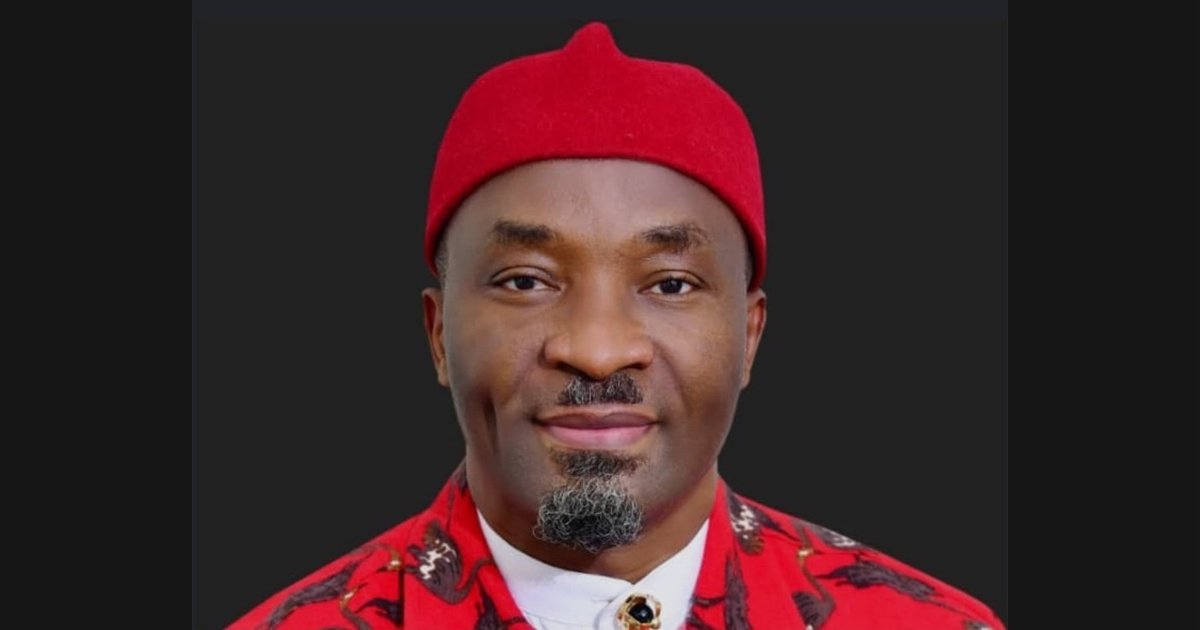
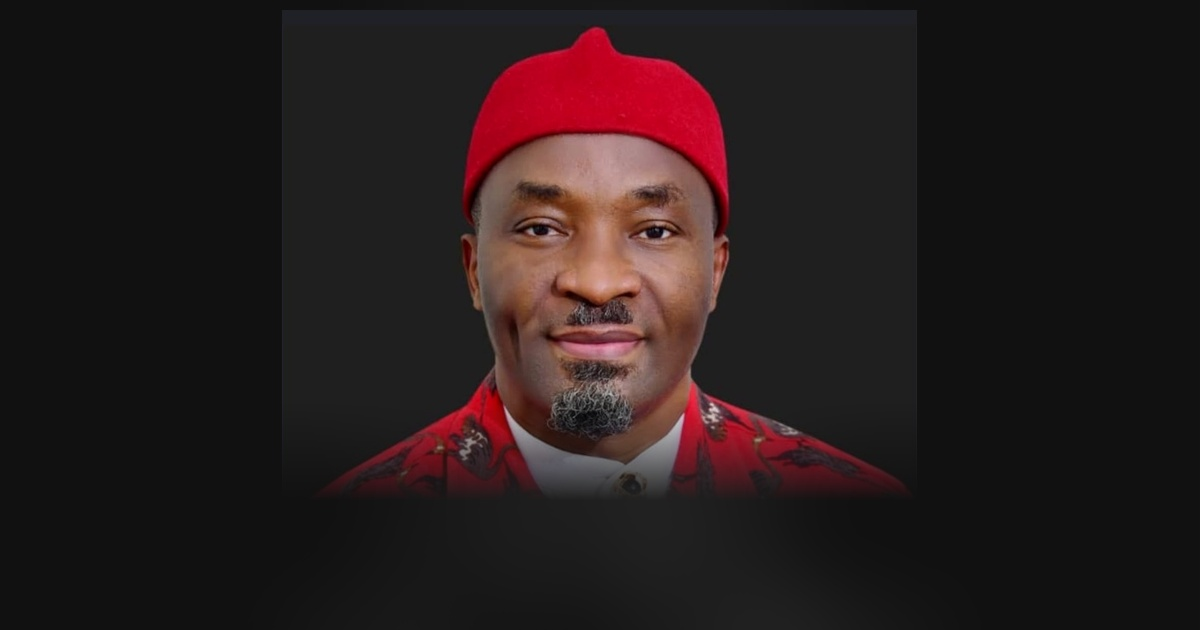
style(blog): expand hero height, adjust gradient and re-position portrait for clear visibility

diff --git a/adplatform/frontend/app/blog/[id]/BlogPostClient.tsx b/adplatform/frontend/app/blog/[id]/BlogPostClient.tsx
@@ -226,15 +226,15 @@ export default function BlogPostClient({
           
           {/* Hero Image */}
           <div 
-            className="relative w-full h-[439px] shrink-0" 
+            className="relative w-full min-h-[460px] md:min-h-[520px] flex items-end justify-center pb-[35px] shrink-0" 
             style={{ 
-              backgroundImage: `linear-gradient(180deg, rgba(20, 20, 20, 0) 0%, rgba(20, 20, 20, 0.880208) 75.52%, #141414 100%), url('${currentPost.imageUrl || FALLBACK_POST.imageUrl}')`, 
+              backgroundImage: `linear-gradient(180deg, rgba(20, 20, 20, 0) 0%, rgba(20, 20, 20, 0.08) 45%, rgba(20, 20, 20, 0.85) 82%, #141414 100%), url('${currentPost.imageUrl || FALLBACK_POST.imageUrl}')`, 
               backgroundSize: 'cover', 
-              backgroundPosition: 'center 20%' 
+              backgroundPosition: 'center 10%' 
             }}
           >
             <h1 
-              className="absolute bottom-[35px] left-1/2 -translate-x-1/2 w-full max-w-[908px] px-[20px] text-center text-[#FFFFFF] font-semibold text-[32px] md:text-[44px] leading-[150%] tracking-[-0.03em]" 
+              className="w-full max-w-[908px] px-[20px] text-center text-[#FFFFFF] font-semibold text-[30px] md:text-[42px] leading-[135%] tracking-[-0.03em] drop-shadow-[0_3px_16px_rgba(0,0,0,0.85)] z-10" 
               style={{ fontFamily: 'var(--font-dm-sans), DM Sans, sans-serif' }}
             >
               {currentPost.title}
